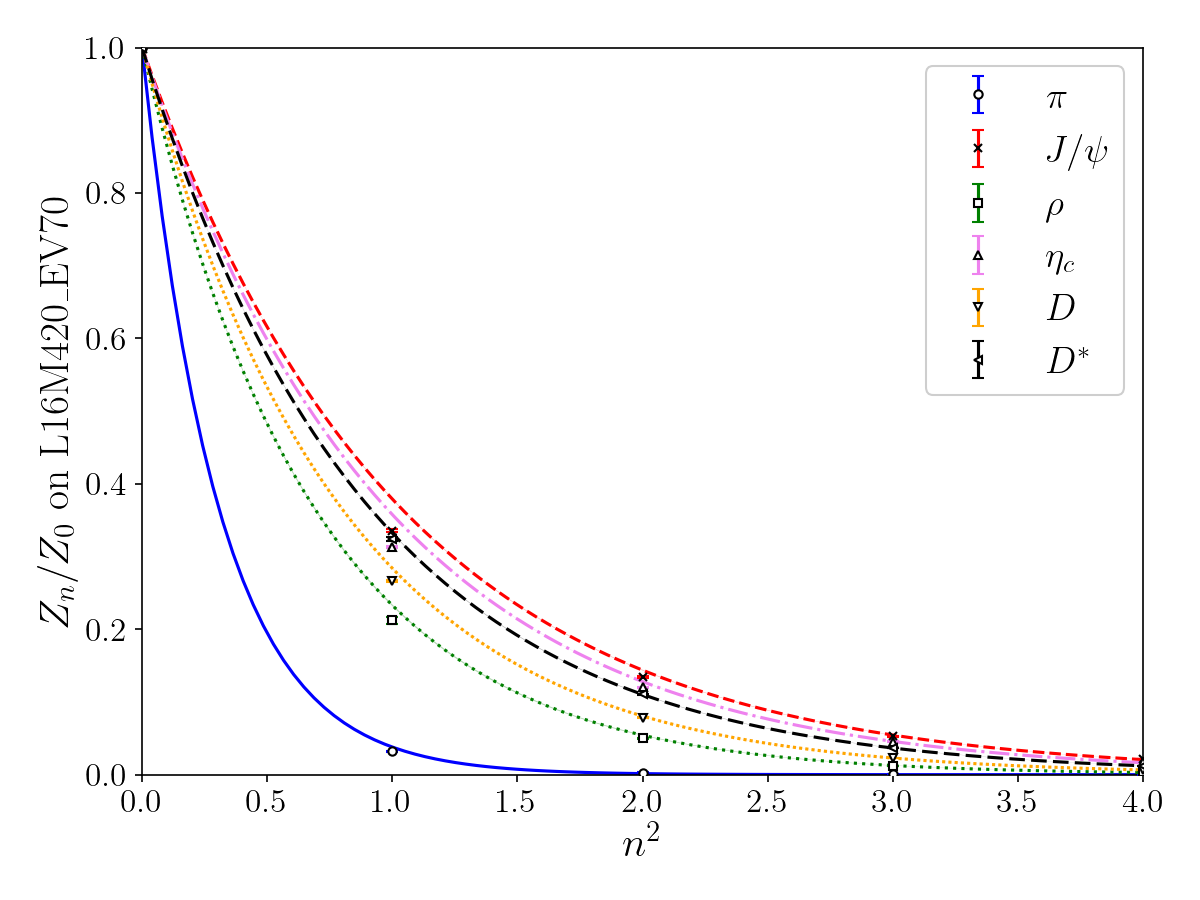
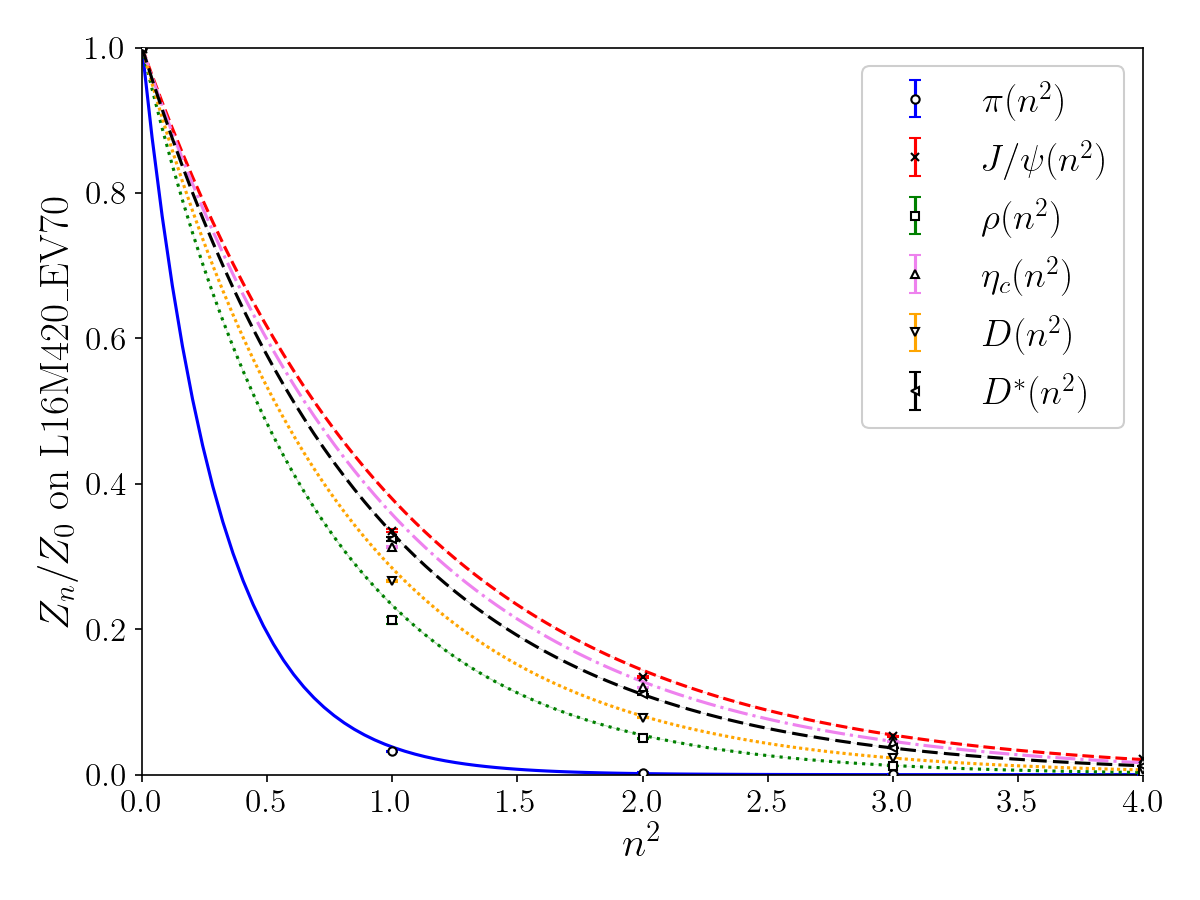
Update README

diff --git a/input/input_Tcccc6600.py b/input/input_Tcccc6600.py
@@ -30,7 +30,7 @@ class InputControl:
     is_ratio: bool = False
 
     run_tmin: bool = False
-    run_resample: bool = False  # run resampling from main.py
+    run_resample: bool = False  
     run_scattering: bool = True
 
     plot_meff: bool = True  # En / Zn plots (fit always runs)

diff --git a/input/input_X3872.py b/input/input_X3872.py
@@ -30,7 +30,7 @@ class InputControl:
     is_ratio: bool = False
 
     run_tmin: bool = False
-    run_resample: bool = False  # run resampling from main.py
+    run_resample: bool = True  
     run_scattering: bool = False
 
     plot_meff: bool = True  # En / Zn plots (fit always runs)

diff --git a/input/input_Zc3900.py b/input/input_Zc3900.py
@@ -30,7 +30,7 @@ class InputControl:
     is_ratio: bool = False
 
     run_tmin: bool = False
-    run_resample: bool = False  # run resampling from main.py
+    run_resample: bool = False  
     run_scattering: bool = True
 
     plot_meff: bool = True  # En / Zn plots (fit always runs)

diff --git a/main.py b/main.py
@@ -40,7 +40,7 @@ def run_resample(config: Config) -> None:
 
 
 def main() -> None:
-    builder = BuildConfig("Tcccc6600")
+    builder = BuildConfig("X3872")
     ctrl = builder.input_control
 
     if ctrl.is_meson_analysis:

diff --git a/README.md b/README.md
@@ -1,22 +1,35 @@
-# Lattice QCD Scattering Analysis Pipeline
+# Lattice QCD Tetraquark Scattering Pipeline
 
-**End-to-end Python pipeline for lattice QCD spectroscopy and finite-volume scattering analysis** — ingests large Monte Carlo correlation-function datasets, performs generalized eigenvalue decomposition (GEVP), Bayesian multi-state fits, and Lüscher scattering extraction with full statistical error propagation.
+**Config-driven Python pipeline for lattice QCD tetraquark spectroscopy and finite-volume scattering analysis** — ingests large Monte Carlo correlation-function datasets, performs generalized eigenvalue decomposition (GEVP), Bayesian multi-state fits, jackknife/bootstrap resampling, and Lüscher scattering extraction with full statistical error propagation.
 
-**Showcase system:** fully-charm tetraquark **Tcccc6600** (\(\eta_c\eta_c\), \(J/\psi\,J/\psi\)) on \(N_f=2\) anisotropic ensembles (\(L=12,16\), \(N_t=96/128\), \(m_\pi\approx 420\) MeV, **400 gauge configurations** per volume, **120–170 distillation eigenvectors** depending on \(L\)).
+The same code path is shared by multiple four-quark systems. System-specific physics choices live in `input/input_<System>.py`: channel names, momentum lists, ensemble metadata, fit windows, priors, scattering channels, and resampling/scattering switches.
+
+**Showcase system:** fully-charm tetraquark **Tcccc6600** (\(\eta_c\eta_c\), \(J/\psi\,J/\psi\)) on \(N_f=2\) anisotropic ensembles (\(L=12,16\), \(N_t=96/128\), \(m_\pi\approx 420\) MeV, **400 gauge configurations** per volume, **120–170 distillation eigenvectors** depending on \(L\), \(a_t^{-1}=7.219\) GeV).
 
 ---
 
 ## Supported Systems
 
-The repository includes input configurations for three physics systems. Switch systems by changing the system name passed to `BuildConfig(...)` in `main.py`.
+The repository includes input configurations for three tetraquark scattering systems. Switch systems by changing the system name passed to `BuildConfig(...)` in `main.py`; the analysis modules and plotting code do not need system-specific edits.
 
-| System | Input file | Ensembles in config | Notes |
-|--------|------------|---------------------|-------|
-| `Tcccc6600` | `input/input_Tcccc6600.py` | \(L=12,16\), \(m_\pi=420\), EV \(170/120\) | Fully-charm showcase system; example figures are tracked |
-| `X3872` | `input/input_X3872.py` | \(L=16\), \(m_\pi=420\), EV \(70\) | Charmonium-like scattering setup; current default in `main.py` |
-| `Zc3900` | `input/input_Zc3900.py` | \(L=16\), \(m_\pi=420\), EV \(70\) | Charged charmonium-like scattering setup |
+| System | Input file | Ensembles in config | Channel setup | Example raw correlator dimensions |
+|--------|------------|---------------------|---------------|-----------------------------------|
+| `Tcccc6600` | `input/input_Tcccc6600.py` | \(L=12,16\), \(m_\pi=420\), EV \(170/120\), \(a_t^{-1}=7.219\) GeV | \(\eta_c\eta_c\), \(J/\psi J/\psi\) | meson `[2, 10, Nt, 400]`; tetraquark `[2, 5, 2, 5, Nt, 400]` |
+| `X3872` | `input/input_X3872.py` | \(L=16\), \(m_\pi=420\), EV \(70\), \(a_t^{-1}=7.219\) GeV | \(\pi J/\psi\), \(\rho\eta_c\), \(DD^*\), \(D^*D^*\) | meson `[6, 5, Nt, Ncfg]`; tetraquark `[4, 2, 4, 2, Nt, Ncfg]` |
+| `Zc3900` | `input/input_Zc3900.py` | \(L=16\), \(m_\pi=420\), EV \(70\), \(a_t^{-1}=7.219\) GeV | \(\pi J/\psi\), \(\rho\eta_c\), \(DD^*\), \(D^*D^*\) | meson `[6, 5, Nt, Ncfg]`; tetraquark `[4, 2, 4, 2, Nt, Ncfg]` |
 
 Only source code, input files, docs, and selected result figures are versioned. Raw correlator and resampled `.npy` data for all systems must be provided locally under `data/<system>/`; they are intentionally ignored by git and are not synchronized to GitHub.
+
+### Adapting Another Tetraquark System
+
+To add or retune a four-quark system, copy an existing `input/input_<System>.py` and update:
+
+- `InputControl`: default ensemble, analysis/resampling/scattering switches, scattering channel indices, and `fit_mom_by_ns`.
+- `get_lattice_params()`: maps each spatial volume \(L\) to `(Ns, Nt, pion_mass, num_eigenvectors)`.
+- `ENSEMBLE_DB`: channel names, momentum lists, GEVP times, fit windows, and fit priors for meson and tetraquark branches.
+- Local data under `data/<System>/`: meson arrays must be `[channel, momentum, time, sample]`; tetraquark arrays must be `[ch_src, mom_src, ch_snk, mom_snk, time, sample]`.
+
+The analysis code then uses the same `main.py`, GEVP, fitting, resampling, plotting, and scattering modules.
 
 ---
 
@@ -24,11 +37,11 @@ Only source code, input files, docs, and selected result figures are versioned. 
 
 | Domain | What this repo demonstrates |
 |--------|----------------------------|
-| **HPC / large-scale numerics** | Batch processing of high-dimensional correlator arrays (4D meson, 6D tetraquark); jackknife over **400 gauge configs**, each rerunning GEVP + fits |
-| **Scientific computing** | Generalized eigenvalue problems (`scipy.linalg.eig`), tensor contractions (`numpy.einsum`), Lüscher zeta summation on \(10^5\)-point grids |
+| **HPC / large-scale numerics** | Batch processing of high-dimensional correlator arrays (4D meson, 6D tetraquark); jackknife/bootstrap over large gauge ensembles, each resample rerunning GEVP + fits |
+| **Scientific computing** | Generalized eigenvalue problems (`scipy.linalg.eig`), tensor contractions (`numpy.einsum`), cached Lüscher zeta summation on \(10^5\)-point grids |
 | **Statistical inference** | Bayesian nonlinear fits (`lsqfit` + `gvar`); jackknife / bootstrap resampling with correlated uncertainties end-to-end |
-| **Parallel computing** | `joblib` parallel precomputation of zeta lookup tables (`n_jobs=-1`) |
-| **Software engineering** | Modular pipeline (I/O → analysis → statistics → plotting); typed dataclass wrappers; config-driven `ENSEMBLE_DB`; publication-ready figures (`plot_format`: PNG or PDF) |
+| **Parallel computing** | `joblib` parallel zeta-table precomputation (`n_jobs=-1`) and vectorized NumPy tensor operations to reduce runtime bottlenecks |
+| **Software engineering** | Modular pipeline (I/O → analysis → statistics → plotting); typed dataclass wrappers; config-driven `ENSEMBLE_DB`; one entrypoint for multiple tetraquark systems; publication-ready figures (`plot_format`: PNG or PDF) |
 
 **Stack:** Python 3.10+ · NumPy · SciPy · gvar · lsqfit · joblib · Matplotlib (LaTeX)
 
@@ -71,7 +84,9 @@ Monte Carlo correlators          data/<system>/raw/*.npy
                          └─► result/<system>/*.{png|pdf}   (plot_format)
 ```
 
-**Compute profile:** `run_resample=True` is the heavy stage — \(O(N_{\mathrm{cfg}})\) full analysis passes (**400 jackknife leaves** per ensemble). Scattering loads precomputed resampled energies and runs scattering fits plus figure generation. Zeta tables are built once and cached at `data/zeta/zeta_00_rest_array.npy`.
+**Compute profile:** `run_resample=True` is the heavy stage. It is a large-scale data analysis pass over the gauge ensemble: for jackknife it performs \(O(N_{\mathrm{cfg}})\) full analysis passes (**400 leave-one-out samples** for the showcase ensembles), and each pass may rerun GEVP, effective-mass fits, and dispersion fits. Without vectorized array operations, cached intermediate products, and parallel zeta-table generation, this stage can be very time-consuming. Scattering then loads precomputed resampled energies and runs the lighter finite-volume fits plus figure generation. Zeta tables are built once in parallel and cached at `data/zeta/zeta_00_rest_array.npy`.
+
+Performance-sensitive pieces are written to avoid unnecessary Python loops where possible: GEVP rotations use `numpy.einsum`, correlator containers keep array access shape-stable, resampled outputs are stored once and reused by scattering runs, and the expensive Lüscher zeta lookup is parallelized with `joblib`. This keeps repeated plotting/scattering runs fast after the resampled `.npy` files and zeta cache exist.
 
 ---
 
@@ -89,7 +104,7 @@ Monte Carlo correlators          data/<system>/raw/*.npy
 | Unified plot styling | `plotting/plot_set.py` | TeX fonts, z-order, `save_figure()` |
 | Figure output | `plotting/plot_*.py` | `result/<system>/*.{png,pdf}` (see naming below) |
 
-**Design:** configuration, I/O, analysis, statistics, and plotting are decoupled. A new physics system needs only `input/input_<System>.py` and a one-line change in `main.py`.
+**Design:** configuration, I/O, analysis, statistics, and plotting are decoupled. A new tetraquark system needs only `input/input_<System>.py`, local `data/<System>/` arrays with the documented shapes, and a one-line change in `main.py`.
 
 ---
 
@@ -135,6 +150,11 @@ lattice_scattering/
 | `scattering_dict` | Scattering observables per ensemble |
 
 `mom` is the momentum quantum number \(n^2\) used as an **array index** (not a sequential 0…N−1 label). Channel/momentum lists come from `chan_momt_list` in `ENSEMBLE_DB`.
+
+Example dimensions:
+
+- `Tcccc6600` \(L=12\): meson raw correlator `correlation_meson_L12M420_EV170.npy` has shape `[2, 10, 96, 400]`; tetraquark raw correlator `correlation_tetraquark_L12M420_EV170.npy` has shape `[2, 5, 2, 5, 96, 400]`.
+- `X3872` / `Zc3900` \(L=16\): meson raw correlators follow `[6, 5, 128, Ncfg]`; tetraquark raw correlators follow `[4, 2, 4, 2, 128, Ncfg]`.
 
 ### Output figure naming
 
@@ -237,7 +257,7 @@ plot_format: str = "png"              # "png" or "pdf"
 resample_type: str = "jackknife"      # or "bootstrap"
 ```
 
-| \(L\) | \(N_t\) | \(m_\pi\) (MeV) | Distillation EV | Gauge configs | \(a^{-1}\) (GeV) |
+| \(L\) | \(N_t\) | \(m_\pi\) (MeV) | Distillation EV | Gauge configs | \(a_t^{-1}\) (GeV) |
 |-------|---------|-----------------|-----------------|---------------|------------------|
 | 12 | 96 | 420 | 170 | 400 | 7.219 |
 | 16 | 128 | 420 | 120 | 400 | 7.219 |